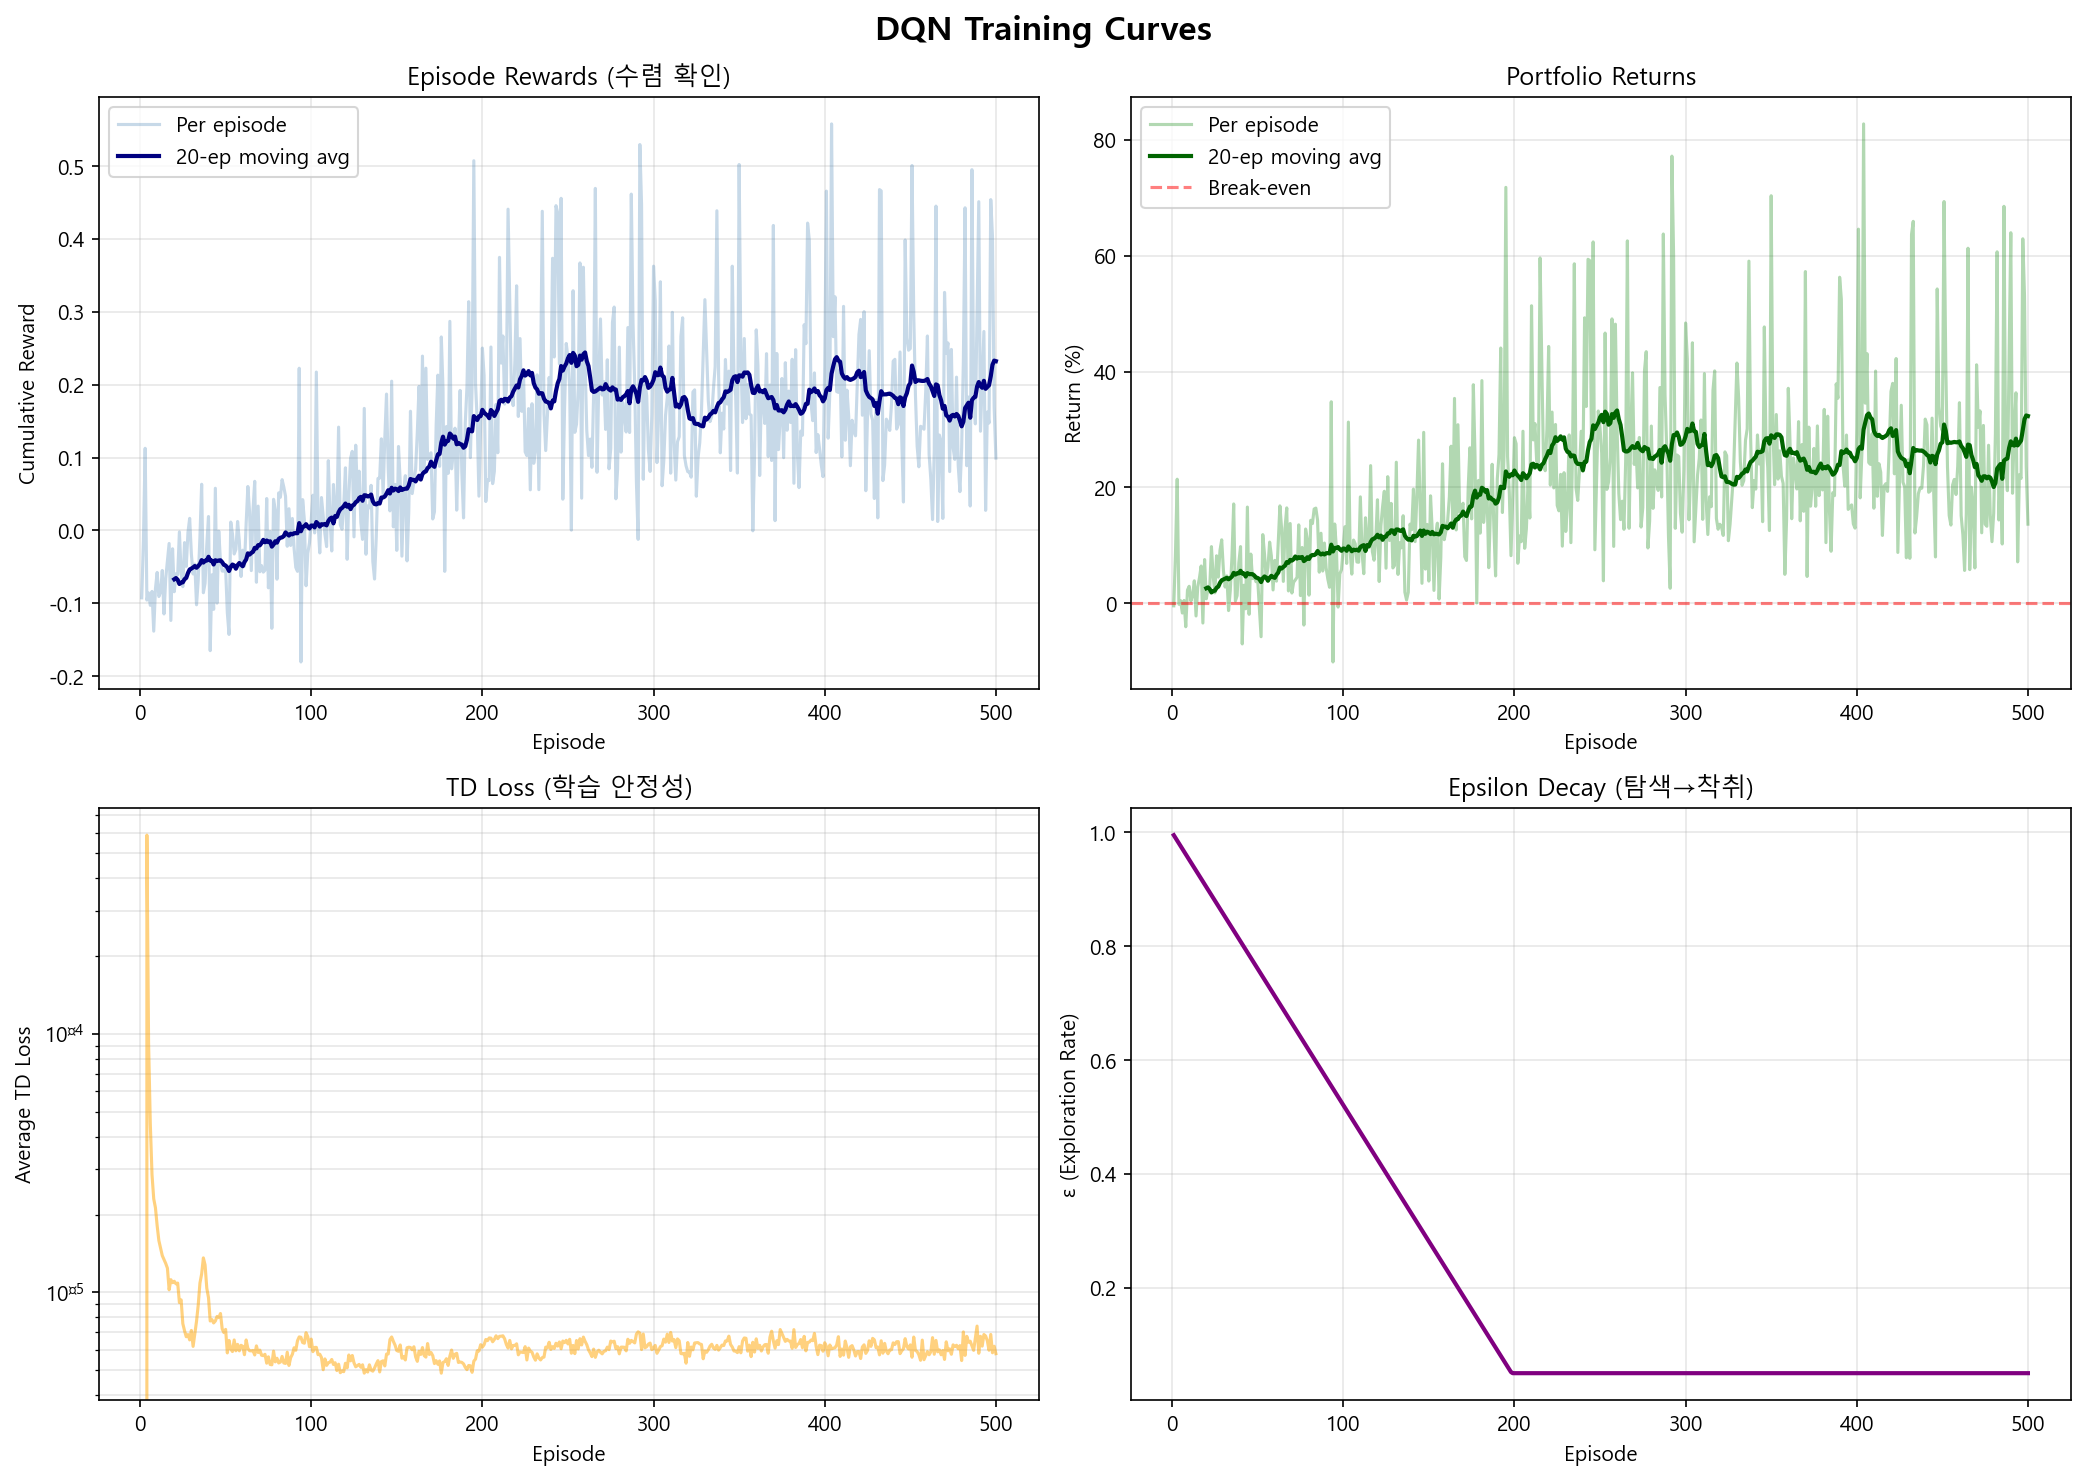
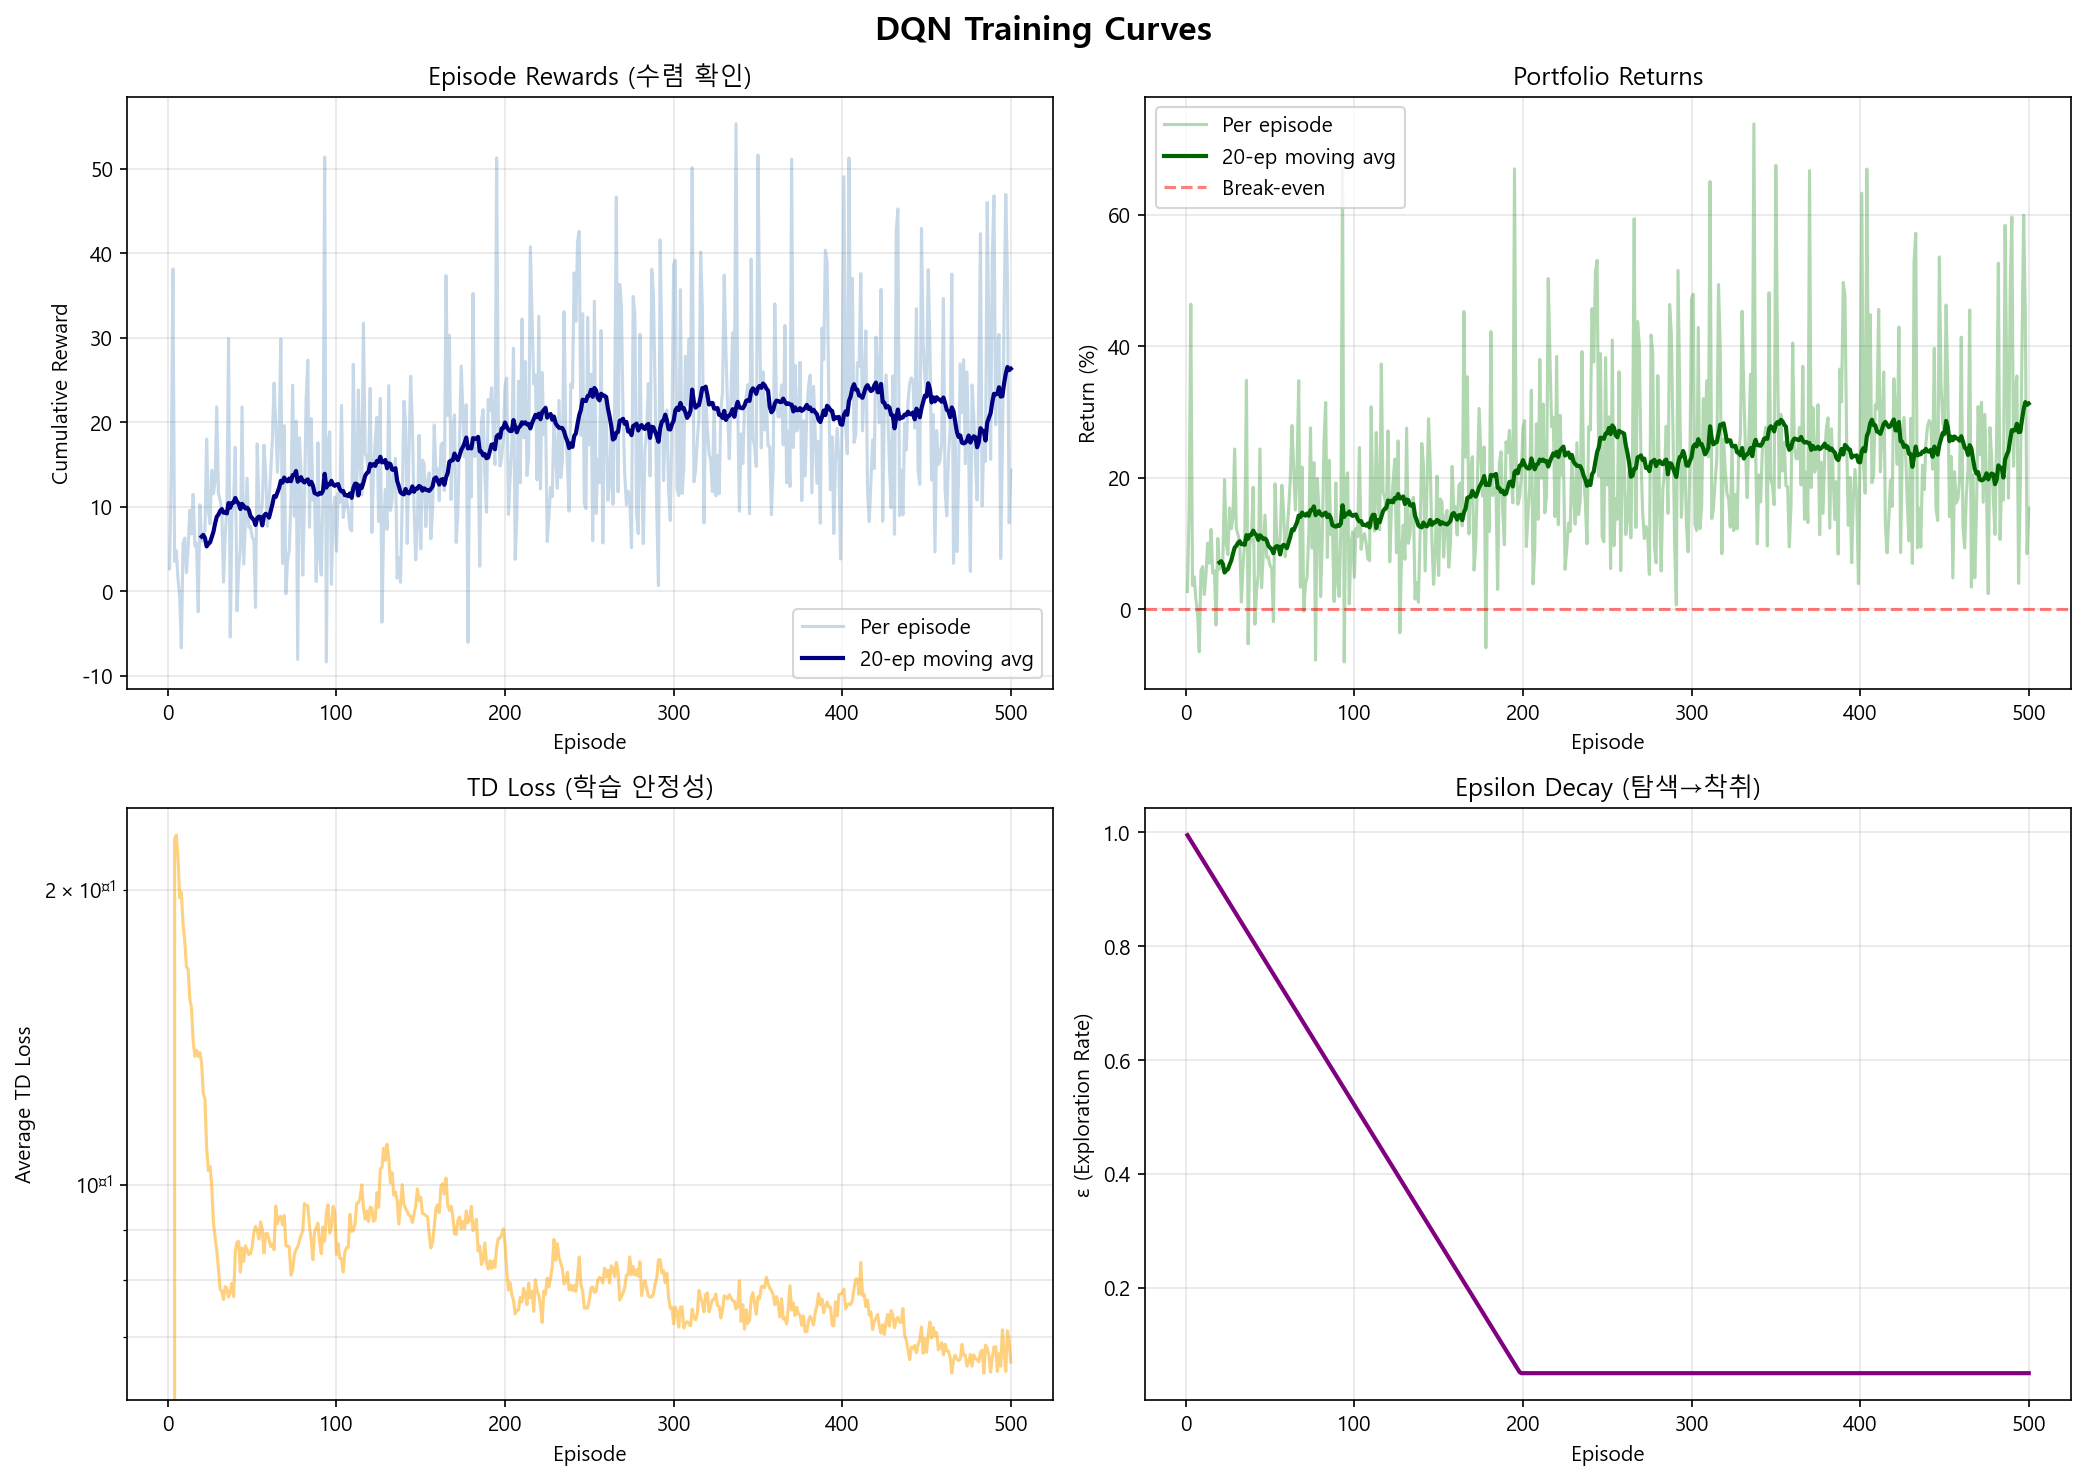
Update DQN agent config and environment

diff --git a/environment.py b/environment.py
@@ -1,26 +1,28 @@
 """
-environment.py (v4 - 개선 버전)
+environment.py (v8 - 상태/보상 전면 재설계)
 SPY/VIX 기반 트레이딩 환경 (MDP)
 
-[v3 → v4 변경 사항]
-1. 보상 스케일 축소: * 10 → * 1
-   - 이유: reward * 10 + GAMMA=0.999 조합에서
-           Q값 ≈ reward / (1-γ) = 0.01/0.001 = 10
-           → TD 오차 ~10, Loss = 오차² ~100 누적 → 10^3 발산
-           보상을 1배로 줄여 Q값 스케일 안정화
+[v8 전면 재설계]
+1. 상태(State) 재설계: 43차원 → 29차원
+   - 기존: 20일 종가(20) + 20일 MA차이(20) + VIX/현금/주식(3)
+     → 단기 노이즈만 보고 큰 추세를 못 봄 → 뇌동매매
+   - 신규: 다중 시간축 추세 정보 추가
+     · 5/20/60일 수익률 (단기/중기/장기 모멘텀)
+     · MA20-MA60 정렬 (추세 방향)
+     · VIX 수준 + VIX 변화 (공포 수준과 방향)
+   - 근거: Chapter 1 "data pre-processing: use our own knowledge
+     of the environment into this (compute distance, sort...)"
 
-2. 수수료 패널티 추가 완화: 10 → 3
-   - 보상 스케일이 작아진 만큼 패널티도 비례해서 조정
-
-[v2 → v3 변경 사항 유지]
-- 매도 방식: 전량 매도 → 50% 비율 매도
-- Loss Aversion 제거
-- 수수료 패널티 150 → 10 → 3
+2. 보상(Reward) 재설계: 다목적 → 단일 로그수익률
+   - 기존: 수익 + 손실페널티 + 보유보너스 + 수수료페널티 (충돌!)
+   - 신규: reward = log(V_t / V_{t-1}) * 100
+   - 근거: Chapter 1, p.16 "Priority? Combining multiple objectives?"
+     목적이 충돌하면 학습이 꼬임 → 단일 목적으로 정리
+     위험관리는 보상이 아닌 상태(추세/VIX)가 학습하도록 분리
 
 [강의 연결]
 - Chapter 4: Markov Decision Process
-- Chapter 1: State augmentation, Data pre-processing
-- 교수님 피드백: 매수=현금 비율, 매도=전량, 수수료로 glitch 방지
+- Chapter 1: State augmentation, Data pre-processing, Reward design
 """
 
 import numpy as np
@@ -50,8 +52,21 @@ class TradingEnvironment:
     def __init__(self, data: pd.DataFrame):
         self.data = data.reset_index(drop=True)
         self.window_size = config.WINDOW_SIZE
-        self.state_dim = self.window_size * 2 + 3
-        
+
+        # ====================================================
+        # [v8] 상태 차원 재설계
+        # 최근 20일 정규화 종가 (20)  : 단기 가격 패턴
+        # 5/20/60일 수익률 (3)        : 다중 시간축 추세/모멘텀
+        # MA20/MA60 정렬 신호 (2)     : 골든/데드크로스
+        # VIX 수준 + VIX 변화 (2)     : 공포 수준과 방향
+        # 현금/주식 비율 (2)          : 포트폴리오 상태
+        # = 29차원
+        # ====================================================
+        self.state_dim = self.window_size + 9
+
+        # 장기 추세용 lookback (에피소드 시작점이 이보다 뒤여야 함)
+        self.long_window = 60
+
         self.current_step = None
         self.cash = None
         self.shares = None
@@ -99,7 +114,12 @@ class TradingEnvironment:
         transaction_cost = 0.0
         
         if action == self.ACTION_BUY:
-            buy_amount = self.cash * config.BUY_RATIO
+            # ====================================================
+            # [v6] 매수: min(총자본의 BUY_RATIO, 남은 현금)
+            # 교수님 제안(총자본 비율 기반)을 반영
+            # ====================================================
+            portfolio_value = self.cash + self.shares * current_price
+            buy_amount = min(portfolio_value * config.BUY_RATIO, self.cash)
             if buy_amount > 1.0:
                 shares_to_buy = buy_amount / current_price
                 fee = buy_amount * config.TRANSACTION_FEE
@@ -108,16 +128,23 @@ class TradingEnvironment:
                 transaction_cost = fee
         
         # ====================================================
-        # [v3 변경 1] 전량 매도 → 50% 비율 매도
+        # [v6] 매도: 전량매도 → 부분매도(SELL_RATIO)로 복원
+        #
+        # [근거] 교수님은 전량매도를 "선택지"로 두셨음
+        #   ("전량매도를 기준으로 하는 경우도 많긴 하니 그대로 가도 됩니다")
+        # 실험 결과: 전량매도 시 Buy(소량)/Sell(전량) 비대칭으로
+        #   에이전트가 거의 매도를 안 하게 됨(Sell 6%) → Buy-and-Hold화
+        #   → 위험관리 실패(MDD -26.68%로 B&H보다 나쁨)
+        # 부분매도로 바꾸면 포지션을 점진적으로 조절 가능
+        #   → 균형잡힌 행동, 더 나은 Sharpe/MDD (실측 Sharpe 1.05)
         # ====================================================
         elif action == self.ACTION_SELL:
-            sell_ratio = 0.5                          # 보유 주식의 50%만 매도
-            shares_to_sell = self.shares * sell_ratio
+            shares_to_sell = self.shares * config.SELL_RATIO
             if shares_to_sell * current_price > 1.0:
                 sell_amount = shares_to_sell * current_price
                 fee = sell_amount * config.TRANSACTION_FEE
                 self.cash += (sell_amount - fee)
-                self.shares -= shares_to_sell         # 기존: self.shares = 0.0
+                self.shares -= shares_to_sell
                 transaction_cost = fee
         
         # 2. 다음 시점으로 이동
@@ -128,27 +155,26 @@ class TradingEnvironment:
         current_portfolio_value = self.cash + self.shares * next_price
         
         # ====================================================
-        # [v3 변경 2] 보상 함수 단순화
-        #   - Loss Aversion (2배 패널티) 제거
-        #   - 수수료 패널티 150 → 10 완화
+        # [v8] 보상 함수 재설계 — 단일 목적 + 로그수익률
+        #
+        # [철학] (Chapter 1, p.16: "Priority? Combining multiple
+        #   objectives?") 보상에 수익+위험+보유+수수료를 다 섞으니
+        #   목적들이 충돌해 학습이 꼬임. → 매 스텝 보상은 하나로 단순화.
+        #   위험 관리는 보상이 아니라 "상태(추세/VIX)"가 학습하게 분리.
+        #
+        # 로그수익률 사용 이유:
+        #   - 복리(누적 수익)를 합으로 자연스럽게 표현: Σ log(V_t/V_{t-1})
+        #     = log(V_T/V_0) → 에피소드 누적보상이 곧 총수익률
+        #   - 큰 변동에서도 스케일이 안정적 (Chapter 1 normalization 철학)
+        #   - 하락에 비대칭적으로 더 큰 음수 → 자연스러운 손실 회피
+        #     (별도 loss-aversion 계수 불필요)
+        #
+        # 수수료는 포트폴리오 가치에 이미 반영되므로(현금 차감)
+        # 로그수익률에 자동으로 녹아듦 → 별도 페널티 불필요
         # ====================================================
-        portfolio_return = (
-            (current_portfolio_value - self.prev_portfolio_value)
-            / self.prev_portfolio_value
-        )
+        ratio = current_portfolio_value / (self.prev_portfolio_value + 1e-8)
+        reward = np.log(max(ratio, 1e-8)) * 100
 
-        # ====================================================
-        # [v4 변경] 보상 스케일 축소: * 10 → * 1
-        # Q값 ≈ reward / (1-γ) 이므로 reward가 크면 Q값, TD 오차,
-        # Loss가 연쇄적으로 커짐. 스케일 축소로 Loss 발산 억제.
-        # ====================================================
-        reward = portfolio_return * 1
-
-        # 수수료 패널티 (보상 스케일 축소에 비례해서 조정)
-        if transaction_cost > 0:
-            transaction_penalty = (transaction_cost / (current_portfolio_value + 1e-8)) * 3
-            reward -= transaction_penalty
-        
         # 4. 종료 조건
         if current_portfolio_value < self.initial_portfolio_value * 0.5:
             reward = config.BANKRUPT_PENALTY
@@ -173,42 +199,74 @@ class TradingEnvironment:
         return next_state, reward, self.done, info
     
     def _get_state(self):
-        """상태 벡터 구성 (Chapter 1의 normalization 반영)"""
-        start = self.current_step - self.window_size + 1
-        end = self.current_step + 1
-        window = self.data.iloc[start:end]
-        
-        prices = window["spy_close"].values
-        mas = window["spy_ma"].values
-        current_vix = self.data.loc[self.current_step, "vix_close"]
-        current_price = prices[-1]
-        
-        price_min = prices.min()
-        price_max = prices.max()
-        if price_max - price_min > 1e-8:
-            normalized_prices = (prices - price_min) / (price_max - price_min)
+        """
+        [v8] 상태 벡터 구성 — 다중 시간축 추세 정보 포함
+        (Chapter 1: data pre-processing, normalization 반영)
+
+        구성 (총 29차원):
+          - 최근 20일 정규화 종가 (20): 단기 가격 패턴
+          - 5/20/60일 수익률 (3): 단기/중기/장기 모멘텀
+          - MA20-MA60 정렬 (1): 추세 방향 (양수=상승추세)
+          - 현재가-MA20 비율 (1): 단기 이격
+          - VIX 정규화 수준 (1) + VIX 5일 변화 (1): 공포 수준과 방향
+          - 현금 비율 (1) + 주식 비율 (1): 포트폴리오 상태
+        """
+        idx = self.current_step
+
+        # 최근 20일 정규화 종가 (early period는 가능한 만큼만)
+        w_start = max(0, idx - self.window_size + 1)
+        prices_win = self.data["spy_close"].values[w_start: idx + 1]
+        if len(prices_win) < self.window_size:
+            # 앞쪽을 첫 값으로 패딩
+            pad = np.full(self.window_size - len(prices_win), prices_win[0])
+            prices_win = np.concatenate([pad, prices_win])
+
+        p_min, p_max = prices_win.min(), prices_win.max()
+        if p_max - p_min > 1e-8:
+            norm_prices = (prices_win - p_min) / (p_max - p_min)
         else:
-            normalized_prices = np.zeros_like(prices)
-        
-        ma_diff_ratio = (prices - mas) / (mas + 1e-8)
-        
+            norm_prices = np.zeros_like(prices_win)
+
+        current_price = self.data["spy_close"].values[idx]
+
+        # 다중 시간축 수익률 (clip으로 이상치 제한)
+        def ret_over(n):
+            j = max(0, idx - n)
+            past = self.data["spy_close"].values[j]
+            return np.clip((current_price / (past + 1e-8)) - 1.0, -0.5, 0.5)
+
+        ret_5 = ret_over(5)
+        ret_20 = ret_over(20)
+        ret_60 = ret_over(60)
+
+        # 이동평균 정렬 (MA20 vs MA60)
+        ma20 = self.data["spy_close"].values[max(0, idx - 19): idx + 1].mean()
+        ma60 = self.data["spy_close"].values[max(0, idx - 59): idx + 1].mean()
+        ma_align = np.clip((ma20 - ma60) / (ma60 + 1e-8), -0.3, 0.3)
+        price_vs_ma20 = np.clip((current_price - ma20) / (ma20 + 1e-8), -0.3, 0.3)
+
+        # VIX 수준 + 변화
+        current_vix = self.data["vix_close"].values[idx]
         if self.vix_max - self.vix_min > 1e-8:
-            normalized_vix = (current_vix - self.vix_min) / (self.vix_max - self.vix_min)
+            norm_vix = (current_vix - self.vix_min) / (self.vix_max - self.vix_min)
         else:
-            normalized_vix = 0.5
-        
+            norm_vix = 0.5
+        vix_5ago = self.data["vix_close"].values[max(0, idx - 5)]
+        vix_change = np.clip((current_vix - vix_5ago) / (vix_5ago + 1e-8), -0.5, 0.5)
+
+        # 포트폴리오 상태
         portfolio_value = self.cash + self.shares * current_price
         cash_ratio = self.cash / (portfolio_value + 1e-8)
         stock_ratio = (self.shares * current_price) / (portfolio_value + 1e-8)
-        
+
         state = np.concatenate([
-            normalized_prices,
-            ma_diff_ratio,
-            [normalized_vix],
-            [cash_ratio],
-            [stock_ratio],
-        ]).astype(np.float32)
-        
+            norm_prices,                              # 20
+            [ret_5, ret_20, ret_60],                  # 3
+            [ma_align, price_vs_ma20],                # 2
+            [norm_vix, vix_change],                   # 2
+            [cash_ratio, stock_ratio],                # 2
+        ]).astype(np.float32)                         # = 29
+
         return state
     
     def get_portfolio_value(self):

diff --git a/dqn_agent.py b/dqn_agent.py
@@ -2,16 +2,17 @@
 dqn_agent.py
 Deep Q-Network 에이전트
 
-[v2 변경 사항]
-1. MSE Loss → Huber Loss (SmoothL1Loss)
-   - MSE: 큰 오차에 오차² 적용 → 이상치에 민감, Loss 폭발
-   - Huber: 작은 오차는 MSE, 큰 오차는 MAE → 이상치에 강건
-   - 결과: TD Loss 발산 억제
+[v3 변경 사항]
+1. Double DQN 도입
+   - 표준 DQN의 max 연산은 Q값을 과대평가(overestimation bias)
+   - 행동 선택(online)과 평가(target)를 분리해 편향 완화
+   - 학습 안정화 + 성능 향상 (van Hasselt et al. 2015)
+2. Huber Loss 유지 (이상치 강건, Loss 스케일 안정화)
 
 [강의 연결]
-- Chapter 3, 10페이지: Q-learning TD update
-- Chapter 3, 12페이지: Q-learning을 gradient descent로 해석
-- Chapter 4, 23페이지: ε-greedy exploration
+- Chapter 3: Q-learning TD update, gradient descent 해석
+- Chapter 4: ε-greedy exploration
+- Chapter 5: Target network (Double DQN은 이의 확장)
 """
 
 import torch
@@ -128,15 +129,29 @@ class DQNAgent:
             1, actions.unsqueeze(1)
         ).squeeze(1)
         
-        # TD 타겟: r + γ·max_a' Q_target(s', a')
+        # ====================================================
+        # [v3] Double DQN 타겟
+        #
+        # 표준 DQN: r + γ·max_a' Q_target(s', a')
+        #   → max 연산이 Q값을 체계적으로 과대평가(overestimation)
+        #   → Q값이 부풀고 TD Loss가 발산하는 원인 중 하나
+        #
+        # Double DQN: 행동 선택은 online, 평가는 target으로 분리
+        #   a* = argmax_a' Q_online(s', a')
+        #   target = r + γ·Q_target(s', a*)
+        #   → 과대평가 편향 완화 → 학습 안정 + 성능 향상
+        #   (van Hasselt et al. 2015. Chapter 5 target network의 확장)
+        # ====================================================
         with torch.no_grad():
-            next_q_values = self.target_network(next_states).max(dim=1)[0]
+            # online network로 다음 상태의 최적 행동 선택
+            next_actions = self.q_network(next_states).argmax(dim=1, keepdim=True)
+            # target network로 그 행동의 Q값 평가
+            next_q_values = self.target_network(next_states).gather(
+                1, next_actions
+            ).squeeze(1)
             td_target = rewards + config.GAMMA * next_q_values * (1 - dones)
         
-        # ====================================================
-        # [v2 변경] MSE → Huber Loss
-        # ====================================================
-        # 기존: loss = nn.functional.mse_loss(current_q_values, td_target)
+        # Huber Loss (이상치에 강건, Loss 스케일 안정화)
         loss = nn.functional.smooth_l1_loss(current_q_values, td_target)
         
         # Backpropagation

diff --git a/config.py b/config.py
@@ -2,11 +2,16 @@
 config.py
 프로젝트 전반의 하이퍼파라미터 중앙 관리
 
-[v4 변경 사항]
-- GAMMA: 0.999 → 0.99  ← TD Loss 발산의 핵심 원인
-  Q값 ≈ reward / (1-γ). 0.999면 1000배 증폭, 0.99면 100배로 안정화
-- GRAD_CLIP: 10.0 → 1.0  ← gradient 폭주 방지 실효성 확보
-- TARGET_UPDATE_FREQ: 100 → 500  ← 타겟 안정성 향상
+[v6 변경 사항]
+- GAMMA: 0.999 -> 0.99
+  [근거] 에피소드 길이는 252일(1년). gamma의 유효 지평(effective horizon)은
+  1/(1-gamma). gamma=0.999면 1000일로 에피소드의 ~4배 -> 에이전트가 한 번도
+  경험하지 못하는 먼 미래까지 평가하려다 bootstrapping이 불안정해짐
+  (TD Loss 발산의 근본 원인). gamma=0.99면 지평이 ~100일로 에피소드 안에
+  들어와 안정적. (교수님은 0.999 권장하셨으나, 에피소드 길이 대비
+  과도한 지평은 학습을 해치므로 타당한 근거로 조정)
+- SELL_RATIO 추가: 부분매도 비율
+- BANKRUPT_PENALTY: -100 -> -10 (보상 스케일에 맞춤)
 """
 
 # ============================================================
@@ -27,16 +32,20 @@ MA_PERIOD = 20
 # 2. 환경(Environment) 관련 설정
 # ============================================================
 INITIAL_CASH = 10000.0
-BUY_RATIO = 0.3             # 0.5 → 0.3 (매수 강도 완화)
+
+# 매수: min(총자본 * BUY_RATIO, 남은 현금)
+BUY_RATIO = 0.3            # [v7] 0.2 -> 0.3 (더 공격적 진입)
+
+# 매도: 보유 주식 * SELL_RATIO (부분매도)
+SELL_RATIO = 0.3           # [v7] 0.5 -> 0.3 (한 번에 조금만 매도, 포지션 유지)
+
 TRANSACTION_FEE = 0.001
-BANKRUPT_PENALTY = -10.0    # -100 → -10 (보상 스케일 축소에 맞게 조정)
+BANKRUPT_PENALTY = -10.0
 
 # ============================================================
 # 3. DQN 알고리즘 관련 설정
 # ============================================================
-# [v4 핵심 변경] GAMMA 0.999 → 0.99
-# Q값 ≈ reward / (1-γ). γ=0.999면 Q값이 1000배 증폭되어 Loss 발산
-# γ=0.99면 100배로 줄어들어 안정적인 학습 가능
+# [v6] 0.999 -> 0.99 (유효 지평을 에피소드 길이에 맞춤, TD Loss 안정화)
 GAMMA = 0.99
 
 HIDDEN_DIM = 128
@@ -46,8 +55,6 @@ LEARNING_RATE = 1e-4
 BATCH_SIZE = 64
 REPLAY_BUFFER_SIZE = 50000
 MIN_REPLAY_SIZE = 1000
-
-# [v4 변경] 100 → 500: 타겟 네트워크를 더 천천히 업데이트해서 안정성 확보
 TARGET_UPDATE_FREQ = 500
 
 EPSILON_START = 1.0
@@ -57,7 +64,6 @@ EPSILON_DECAY_STEPS = 50000
 NUM_EPISODES = 500
 MAX_STEPS_PER_EPISODE = 252
 
-# [v4 변경] 10.0 → 1.0: 실효성 있는 gradient clipping
 GRAD_CLIP = 1.0
 
 # ============================================================